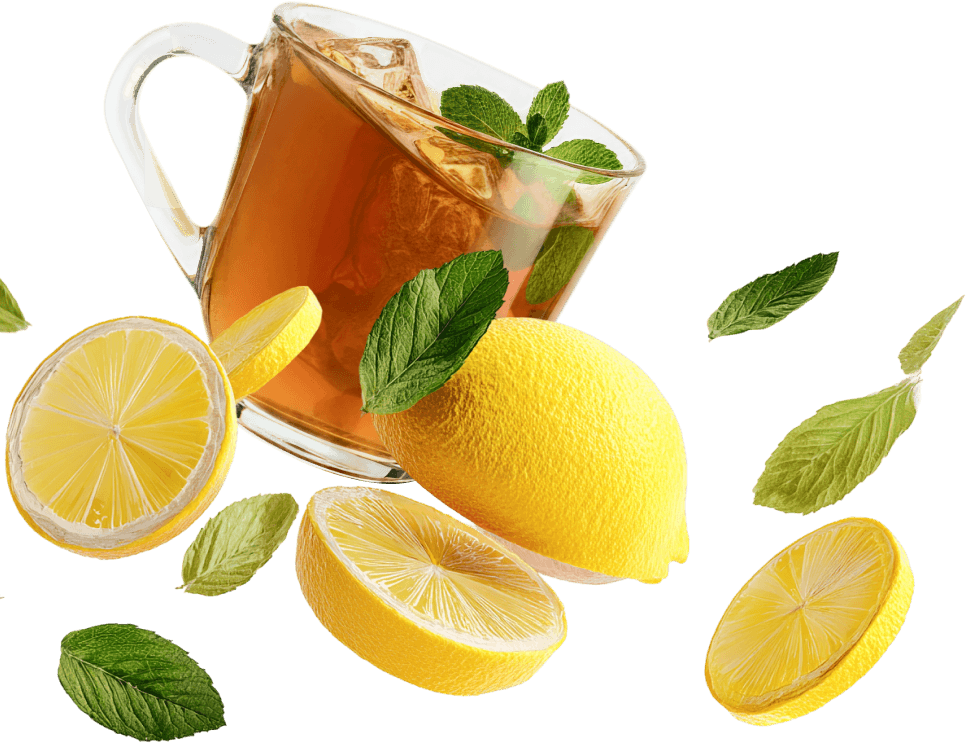
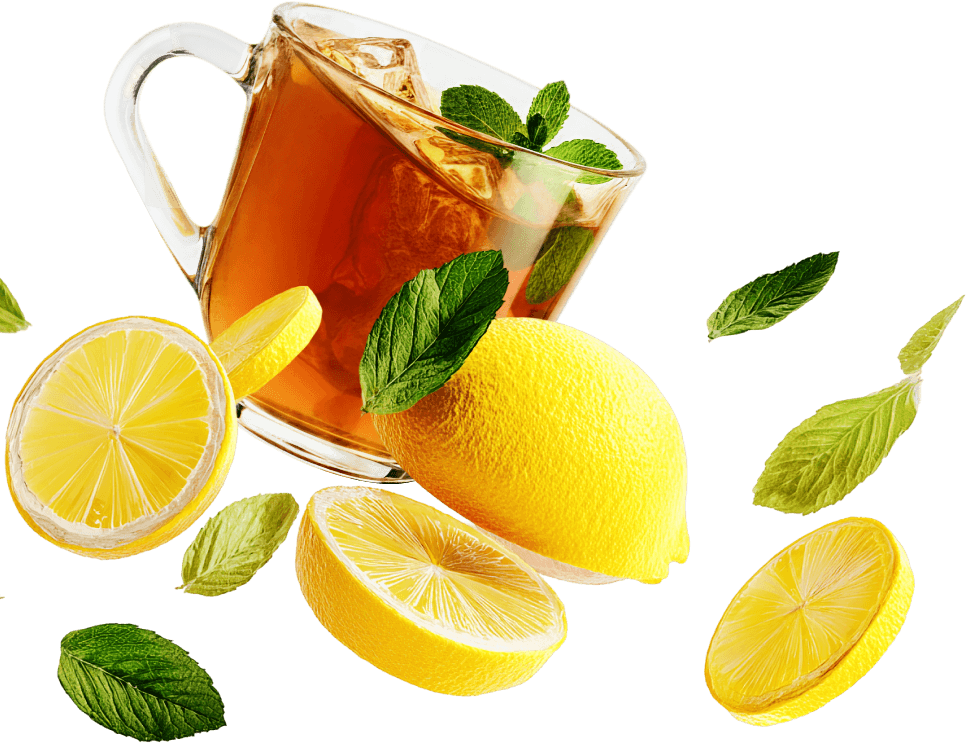
Float carousel 2 title illustrations and refresh tea asset

diff --git a/mos-carousel-2/index.html b/mos-carousel-2/index.html
@@ -1,5 +1,5 @@
 <!doctype html>
-<html lang="ru"><head><meta charset="utf-8"><meta name="viewport" content="width=device-width,initial-scale=1"><title>Вкусная Москва — карусель 2</title><link rel="icon" href="data:,"><link rel="stylesheet" href="styles.css?v=12"><link rel="stylesheet" href="header.css?v=7"><link rel="preload" href="assets/fonts/roboto-flex.ttf" as="font" type="font/ttf" crossorigin><script type="module" src="carousel.js?v=8"></script></head>
+<html lang="ru"><head><meta charset="utf-8"><meta name="viewport" content="width=device-width,initial-scale=1"><title>Вкусная Москва — карусель 2</title><link rel="icon" href="data:,"><link rel="stylesheet" href="styles.css?v=13"><link rel="stylesheet" href="header.css?v=7"><link rel="preload" href="assets/fonts/roboto-flex.ttf" as="font" type="font/ttf" crossorigin><script type="module" src="carousel.js?v=8"></script></head>
 <body><div id="mos-header" class="mos-widget-header mos_layouts_wrapper"><div class="Header_header__1FD6w Header_headerRendered__24O7k" tabindex="-1"><div class="Header_inside__1MzA3 ru"><header class="Caption_caption__3R-Mi" aria-label="Портал mos.ru"><div class="Caption_name__1pfTC"><a aria-disabled="true" tabindex="-1" aria-label="mos.ru — Официальный сайт Мэра Москвы" id="mos-header-title" class="link_link__29xFl link_focusable__lMy2y Caption_nameLink__2XS9J" style="height:100%"><span class="Caption_logo__IS1vg"><img src="assets/mos-header/logo.svg" aria-hidden="true" alt="" class="Caption_iconLogo__P_cnI"></span></a></div><div class="Caption_menu__2k-Z3"><div class="Menu_menuWrapper__341hI"><nav aria-label="Разделы портала" class="Menu_menu__13xOb"><div class="Menu_item__5wCCF"><div class="dropdown_dropdown__1Oynj dropdown_dropdownTriggerWithArrow__3jYM_"><a aria-disabled="true" tabindex="-1" role="link" class="Menu_link__1f7RY common_unstyledButton__10cKX common_large__34EIE common_large__34EIE link_primary__fU-Jd link_link__29xFl link_focusable__lMy2y">Новости</a><button aria-disabled="true" tabindex="-1" type="button" class="dropdown_dropdownTrigger__SxgNI link_focusable__lMy2y dropdown_dropdownTriggerWithArrowAlways__5y4mP" aria-label="Меню раздела Новости"><svg width="16" height="16" viewBox="0 0 16 16" fill="#0E0E0F" class="dropdown_dropdownTriggerArrow__17cwd dropdown_dropdownTriggerArrowVisible__3bAlf"><path d="M1.43774 5.3335L8.00008 11.8958L14.5624 5.3335L12.7711 5.3335L8.00008 10.1045L3.22908 5.3335L1.43774 5.3335Z" fill="#13151A"/></svg></button></div></div><div class="Menu_item__5wCCF"><div class="dropdown_dropdown__1Oynj dropdown_dropdownTriggerWithArrow__3jYM_"><a aria-disabled="true" tabindex="-1" role="link" class="Menu_link__1f7RY common_unstyledButton__10cKX common_large__34EIE common_large__34EIE link_primary__fU-Jd link_link__29xFl link_focusable__lMy2y">Услуги</a><button aria-disabled="true" tabindex="-1" type="button" class="dropdown_dropdownTrigger__SxgNI link_focusable__lMy2y dropdown_dropdownTriggerWithArrowAlways__5y4mP" aria-label="Меню раздела Услуги"><svg width="16" height="16" viewBox="0 0 16 16" fill="#0E0E0F" class="dropdown_dropdownTriggerArrow__17cwd dropdown_dropdownTriggerArrowVisible__3bAlf"><path d="M1.43774 5.3335L8.00008 11.8958L14.5624 5.3335L12.7711 5.3335L8.00008 10.1045L3.22908 5.3335L1.43774 5.3335Z" fill="#13151A"/></svg></button></div></div><div class="Menu_item__5wCCF"><a aria-disabled="true" tabindex="-1" role="link" class="Menu_link__1f7RY common_unstyledButton__10cKX common_large__34EIE common_large__34EIE link_primary__fU-Jd link_link__29xFl link_focusable__lMy2y">Мосбилет</a><div class="Menu_ticketIcon__lzpXe" aria-hidden="true" role="presentation"><img src="assets/mos-header/ticket.svg" alt=""></div></div><div class="Menu_item__5wCCF"><div class="dropdown_dropdown__1Oynj dropdown_dropdownTriggerWithArrow__3jYM_"><a aria-disabled="true" tabindex="-1" role="link" class="Menu_link__1f7RY common_unstyledButton__10cKX common_large__34EIE common_large__34EIE link_primary__fU-Jd link_link__29xFl link_focusable__lMy2y">Мэр</a><button aria-disabled="true" tabindex="-1" type="button" class="dropdown_dropdownTrigger__SxgNI link_focusable__lMy2y dropdown_dropdownTriggerWithArrowAlways__5y4mP" aria-label="Меню раздела Мэр"><svg width="16" height="16" viewBox="0 0 16 16" fill="#0E0E0F" class="dropdown_dropdownTriggerArrow__17cwd dropdown_dropdownTriggerArrowVisible__3bAlf"><path d="M1.43774 5.3335L8.00008 11.8958L14.5624 5.3335L12.7711 5.3335L8.00008 10.1045L3.22908 5.3335L1.43774 5.3335Z" fill="#13151A"/></svg></button></div></div><div class="Menu_item__5wCCF"><div class="dropdown_dropdown__1Oynj dropdown_dropdownTriggerWithArrow__3jYM_"><a aria-disabled="true" tabindex="-1" role="link" class="Menu_link__1f7RY common_unstyledButton__10cKX common_large__34EIE common_large__34EIE link_primary__fU-Jd link_link__29xFl link_focusable__lMy2y">Власть</a><button aria-disabled="true" tabindex="-1" type="button" class="dropdown_dropdownTrigger__SxgNI link_focusable__lMy2y dropdown_dropdownTriggerWithArrowAlways__5y4mP" aria-label="Меню раздела Власть"><svg width="16" height="16" viewBox="0 0 16 16" fill="#0E0E0F" class="dropdown_dropdownTriggerArrow__17cwd dropdown_dropdownTriggerArrowVisible__3bAlf"><path d="M1.43774 5.3335L8.00008 11.8958L14.5624 5.3335L12.7711 5.3335L8.00008 10.1045L3.22908 5.3335L1.43774 5.3335Z" fill="#13151A"/></svg></button></div></div><div class="Menu_item__5wCCF"><a aria-disabled="true" tabindex="-1" role="link" class="Menu_link__1f7RY common_unstyledButton__10cKX common_large__34EIE common_large__34EIE link_primary__fU-Jd link_link__29xFl link_focusable__lMy2y">Мосфото</a></div><div class="Menu_item__5wCCF"><a aria-disabled="true" tabindex="-1" role="link" class="Menu_link__1f7RY common_unstyledButton__10cKX common_large__34EIE common_large__34EIE link_primary__fU-Jd link_link__29xFl link_focusable__lMy2y">Мой район</a></div><div class="Menu_item__5wCCF"><div class="dropdown_dropdown__1Oynj dropdown_dropdownTriggerWithArrow__3jYM_"><a aria-disabled="true" tabindex="-1" role="link" class="Menu_link__1f7RY common_unstyledButton__10cKX common_large__34EIE common_large__34EIE link_primary__fU-Jd link_link__29xFl link_focusable__lMy2y">Помощь</a><button aria-disabled="true" tabindex="-1" type="button" class="dropdown_dropdownTrigger__SxgNI link_focusable__lMy2y dropdown_dropdownTriggerWithArrowAlways__5y4mP" aria-label="Меню раздела Помощь"><svg width="16" height="16" viewBox="0 0 16 16" fill="#0E0E0F" class="dropdown_dropdownTriggerArrow__17cwd dropdown_dropdownTriggerArrowVisible__3bAlf"><path d="M1.43774 5.3335L8.00008 11.8958L14.5624 5.3335L12.7711 5.3335L8.00008 10.1045L3.22908 5.3335L1.43774 5.3335Z" fill="#13151A"/></svg></button></div></div></nav><div class="Menu_lastSlot__1nixy Menu_slot__-tcaB common_item__16qjr"><div class="Search_searchWrapper__2cm_Z"><div class="Search_search__2uVwW"><button type="button" aria-disabled="true" tabindex="-1" class="Search_button__17yql link_focusable__lMy2y" aria-label="Поиск по сайту"><svg width="20" height="20" viewBox="0 0 20 20" fill="none" class="Search_icon__Sj_Ky" role="presentation"><path fill-rule="evenodd" clip-rule="evenodd" d="M9.1665 2.5415C5.50762 2.5415 2.5415 5.50762 2.5415 9.1665C2.5415 12.8254 5.50762 15.7915 9.1665 15.7915C10.6956 15.7915 12.1037 15.2735 13.2248 14.4034L16.9106 18.0891L18.0891 16.9106L14.4034 13.2248C15.2735 12.1037 15.7915 10.6956 15.7915 9.1665C15.7915 5.50762 12.8254 2.5415 9.1665 2.5415ZM4.12484 9.1665C4.12484 6.38207 6.38207 4.12484 9.1665 4.12484C11.9509 4.12484 14.2082 6.38207 14.2082 9.1665C14.2082 11.9509 11.9509 14.2082 9.1665 14.2082C6.38207 14.2082 4.12484 11.9509 4.12484 9.1665Z" fill="#13151A"/></svg></button></div></div></div></div></div><div class="Caption_icons__1krw6"><div class="Caption_navIcon__1FbCm Caption_icon__2XT7z"><button aria-disabled="true" tabindex="-1" type="button" class="Icon_icon__voGwJ common_unstyledButton__10cKX" aria-label="Навигация по сайту"><svg width="16" height="12" class="Icon_iconImg__1Ll2u" role="img" aria-label="Навигация по сайту"><g transform="translate(-124 -292)" fill="none" fill-rule="evenodd"><path d="M139.25 302a.75.75 0 110 1.5h-14.5a.75.75 0 110-1.5h14.5zm0-5a.75.75 0 110 1.5h-14.5a.75.75 0 010-1.5h14.5zm0-5a.75.75 0 110 1.5h-14.5a.75.75 0 010-1.5h14.5z" fill="currentColor"/></g></svg></button></div><div class="Caption_searchIcon__3LSSY Caption_icon__2XT7z"><button aria-disabled="true" tabindex="-1" type="button" class="Icon_icon__voGwJ common_unstyledButton__10cKX" aria-label="Поиск по сайту"><svg width="16" height="17" fill="none" class="Icon_iconImg__1Ll2u" role="img" aria-label="Поиск по сайту"><path fill-rule="evenodd" clip-rule="evenodd" d="M14.508 7.462a7.045 7.045 0 1 0-3.307 5.972l3.04 3.04a.75.75 0 0 0 1.06 0l.089-.09a.75.75 0 0 0 0-1.06l-2.913-2.913a7.022 7.022 0 0 0 2.03-4.95Zm-7.046-5.42a5.42 5.42 0 1 0 0 10.84 5.42 5.42 0 0 0 0-10.84Z" fill="currentColor"/></svg></button></div><div class="Caption_userMobile__apo0A Caption_icon__2XT7z"><div class="User_mobile__3-mrU"><button aria-disabled="true" tabindex="-1" type="button" class="UserIcon_icon__3o-8a common_unstyledButton__10cKX" aria-label="Вход/Регистрация"><svg width="20" height="20" viewBox="0 0 20 20" fill="none" role="presentation"><path fill-rule="evenodd" clip-rule="evenodd" d="M9.99988 1.09375C7.49734 1.09375 5.46863 3.12246 5.46863 5.625C5.46863 8.12754 7.49734 10.1562 9.99988 10.1562C12.5024 10.1562 14.5311 8.12754 14.5311 5.625C14.5311 3.12246 12.5024 1.09375 9.99988 1.09375ZM7.03113 5.625C7.03113 3.9854 8.36028 2.65625 9.99988 2.65625C11.6395 2.65625 12.9686 3.9854 12.9686 5.625C12.9686 7.2646 11.6395 8.59375 9.99988 8.59375C8.36028 8.59375 7.03113 7.2646 7.03113 5.625Z" fill="#13151A"/><path d="M2.74007 14.6018C2.09905 15.4352 1.695 16.2654 1.4506 16.887C1.2081 17.5038 1.08363 18.0948 0.952637 18.7334L2.48327 19.0473C2.48747 19.0268 2.49165 19.0064 2.49583 18.9861C2.60464 18.4549 2.70424 17.9687 2.90475 17.4587C3.10957 16.9378 3.4477 16.2446 3.97855 15.5545C5.02254 14.1973 6.83601 12.8125 9.99994 12.8125C13.1639 12.8125 14.9773 14.1973 16.0213 15.5545C16.5522 16.2446 16.8903 16.9378 17.0951 17.4587C17.2959 17.9693 17.3934 18.4457 17.5019 18.9756C17.5068 18.9994 17.5117 19.0233 17.5166 19.0473L19.0472 18.7334C18.9163 18.0949 18.7916 17.5033 18.5493 16.887C18.3049 16.2654 17.9008 15.4352 17.2598 14.6018C15.96 12.9121 13.711 11.25 9.99994 11.25C6.28886 11.25 4.03984 12.9121 2.74007 14.6018Z" fill="#13151A"/></svg></button></div></div><div class="Caption_userDesktop__2wfJM"><a aria-disabled="true" tabindex="-1" class="Caption_item__3tAks link_white__1QFFV link_link__29xFl link_focusable__lMy2y Caption_itemUser__373OT User_loginLink__1L0QF common_unstyledButton__10cKX User_loginButton__2k0Cj" aria-label="Вход/Регистрация"><span class="User_loginLinkText__3rVLq" aria-hidden="true">Войти</span><span class="User_icon__2FnO5 link_white__1QFFV link_link__29xFl link_focusable__lMy2y Caption_icon__2XT7z"><svg width="20" height="20" viewBox="0 0 20 20" fill="none" role="presentation"><path fill-rule="evenodd" clip-rule="evenodd" d="M9.99988 1.09375C7.49734 1.09375 5.46863 3.12246 5.46863 5.625C5.46863 8.12754 7.49734 10.1562 9.99988 10.1562C12.5024 10.1562 14.5311 8.12754 14.5311 5.625C14.5311 3.12246 12.5024 1.09375 9.99988 1.09375ZM7.03113 5.625C7.03113 3.9854 8.36028 2.65625 9.99988 2.65625C11.6395 2.65625 12.9686 3.9854 12.9686 5.625C12.9686 7.2646 11.6395 8.59375 9.99988 8.59375C8.36028 8.59375 7.03113 7.2646 7.03113 5.625Z" fill="#13151A"/><path d="M2.74007 14.6018C2.09905 15.4352 1.695 16.2654 1.4506 16.887C1.2081 17.5038 1.08363 18.0948 0.952637 18.7334L2.48327 19.0473C2.48747 19.0268 2.49165 19.0064 2.49583 18.9861C2.60464 18.4549 2.70424 17.9687 2.90475 17.4587C3.10957 16.9378 3.4477 16.2446 3.97855 15.5545C5.02254 14.1973 6.83601 12.8125 9.99994 12.8125C13.1639 12.8125 14.9773 14.1973 16.0213 15.5545C16.5522 16.2446 16.8903 16.9378 17.0951 17.4587C17.2959 17.9693 17.3934 18.4457 17.5019 18.9756C17.5068 18.9994 17.5117 19.0233 17.5166 19.0473L19.0472 18.7334C18.9163 18.0949 18.7916 17.5033 18.5493 16.887C18.3049 16.2654 17.9008 15.4352 17.2598 14.6018C15.96 12.9121 13.711 11.25 9.99994 11.25C6.28886 11.25 4.03984 12.9121 2.74007 14.6018Z" fill="#13151A"/></svg></span></a></div></div></header></div></div></div>
 <div class="artboard">
 <main class="hero" aria-labelledby="title" tabindex="0" aria-label="Вкусная Москва. Перетаскивай карточки мышью или используй стрелки клавиатуры.">
@@ -10,7 +10,7 @@
   <img class="hero-food-fish" src="assets/image-food-3.png?v=2" width="600" height="420" alt="" draggable="false">
   <img class="hero-food-made-in-moscow" src="assets/image-food-4.png?v=66bab797d0ae" width="600" height="420" alt="" draggable="false">
   <img class="hero-food-recipes" src="assets/image-food-5.png?v=ad65a6612260" width="600" height="420" alt="" draggable="false">
-  <img class="hero-food-projects" src="assets/tea.png" width="966" height="743" alt="" draggable="false">
+  <img class="hero-food-projects" src="assets/tea.png?v=4dad14e34ef6" width="966" height="743" alt="" draggable="false">
 </div>
 <div class="cards" aria-hidden="true">
 <div class="card-product"><img src="assets/food/1.jpg" alt="Сырники" draggable="false"></div>

diff --git a/mos-carousel-2/styles.css b/mos-carousel-2/styles.css
@@ -29,6 +29,18 @@ h1{margin:0;color:#df2836;font:600 280px/.8 "Roboto Flex",sans-serif;text-align:
   transform: translateY(30px) scale(.86);
   transition: opacity 650ms ease-in-out, transform 650ms cubic-bezier(.4, 0, .2, 1);
 }
+/* The individual translate property lets the drift run alongside the swap transform. */
+.is-ready .hero-food img {
+  animation: hero-food-float 6s ease-in-out 900ms infinite;
+}
+.is-paused .hero-food img {
+  animation-play-state: paused;
+}
+@keyframes hero-food-float {
+  0%, 100% { translate: 0 0; }
+  25% { translate: 0 -25px; }
+  75% { translate: 0 25px; }
+}
 .hero-food .hero-food-projects {
   inset: 30px auto auto 102px;
   width: 483px;
@@ -53,9 +65,11 @@ h1{margin:0;color:#df2836;font:600 280px/.8 "Roboto Flex",sans-serif;text-align:
   transform: none;
 }
 .is-reduced .hero-food img {
+  animation: none;
   transition: none;
 }
 @media (prefers-reduced-motion: reduce) {
+  .is-ready .hero-food img { animation: none; }
   .hero-food img { transition: none; }
 }
 .cards{display:contents}
